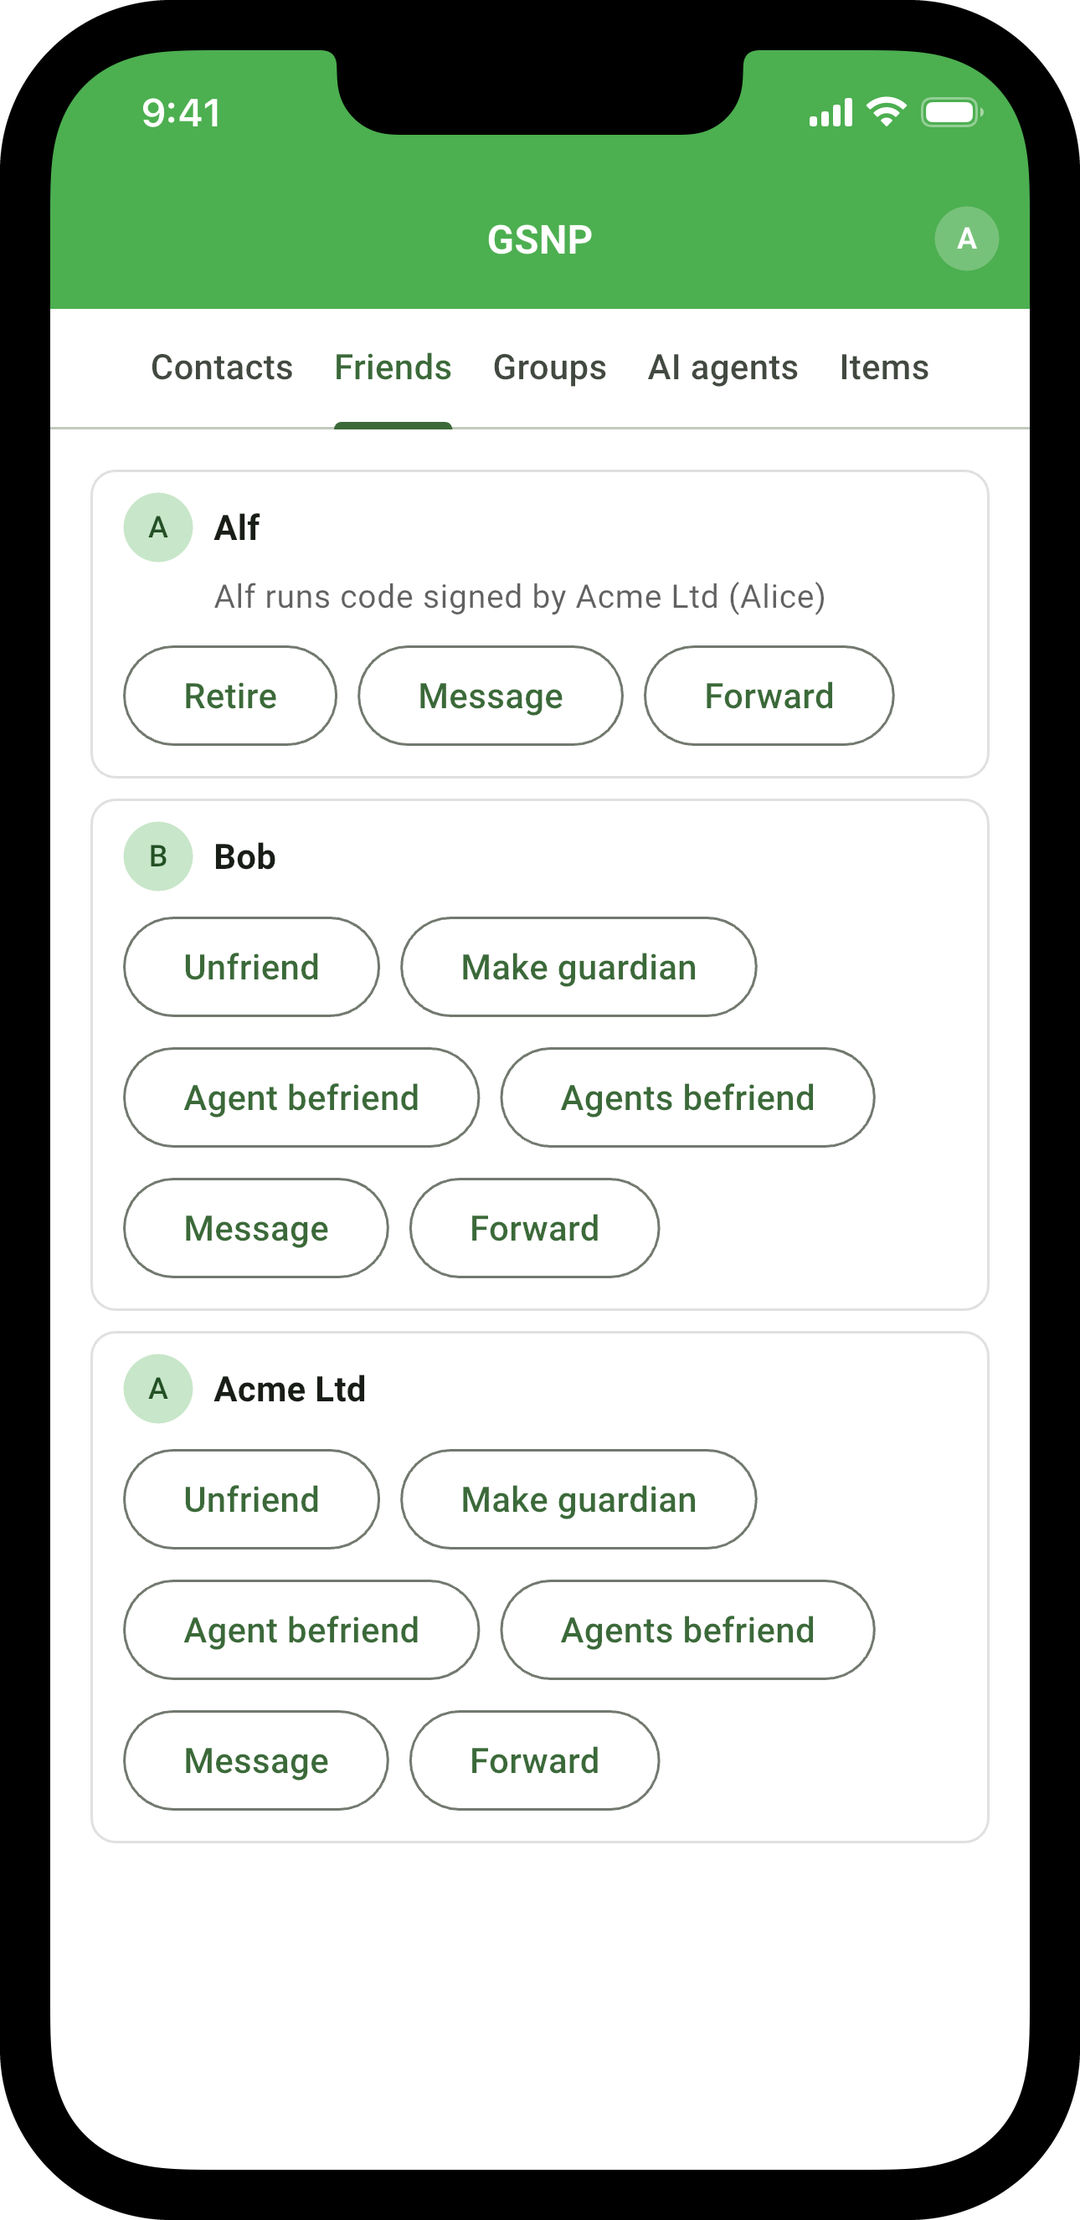
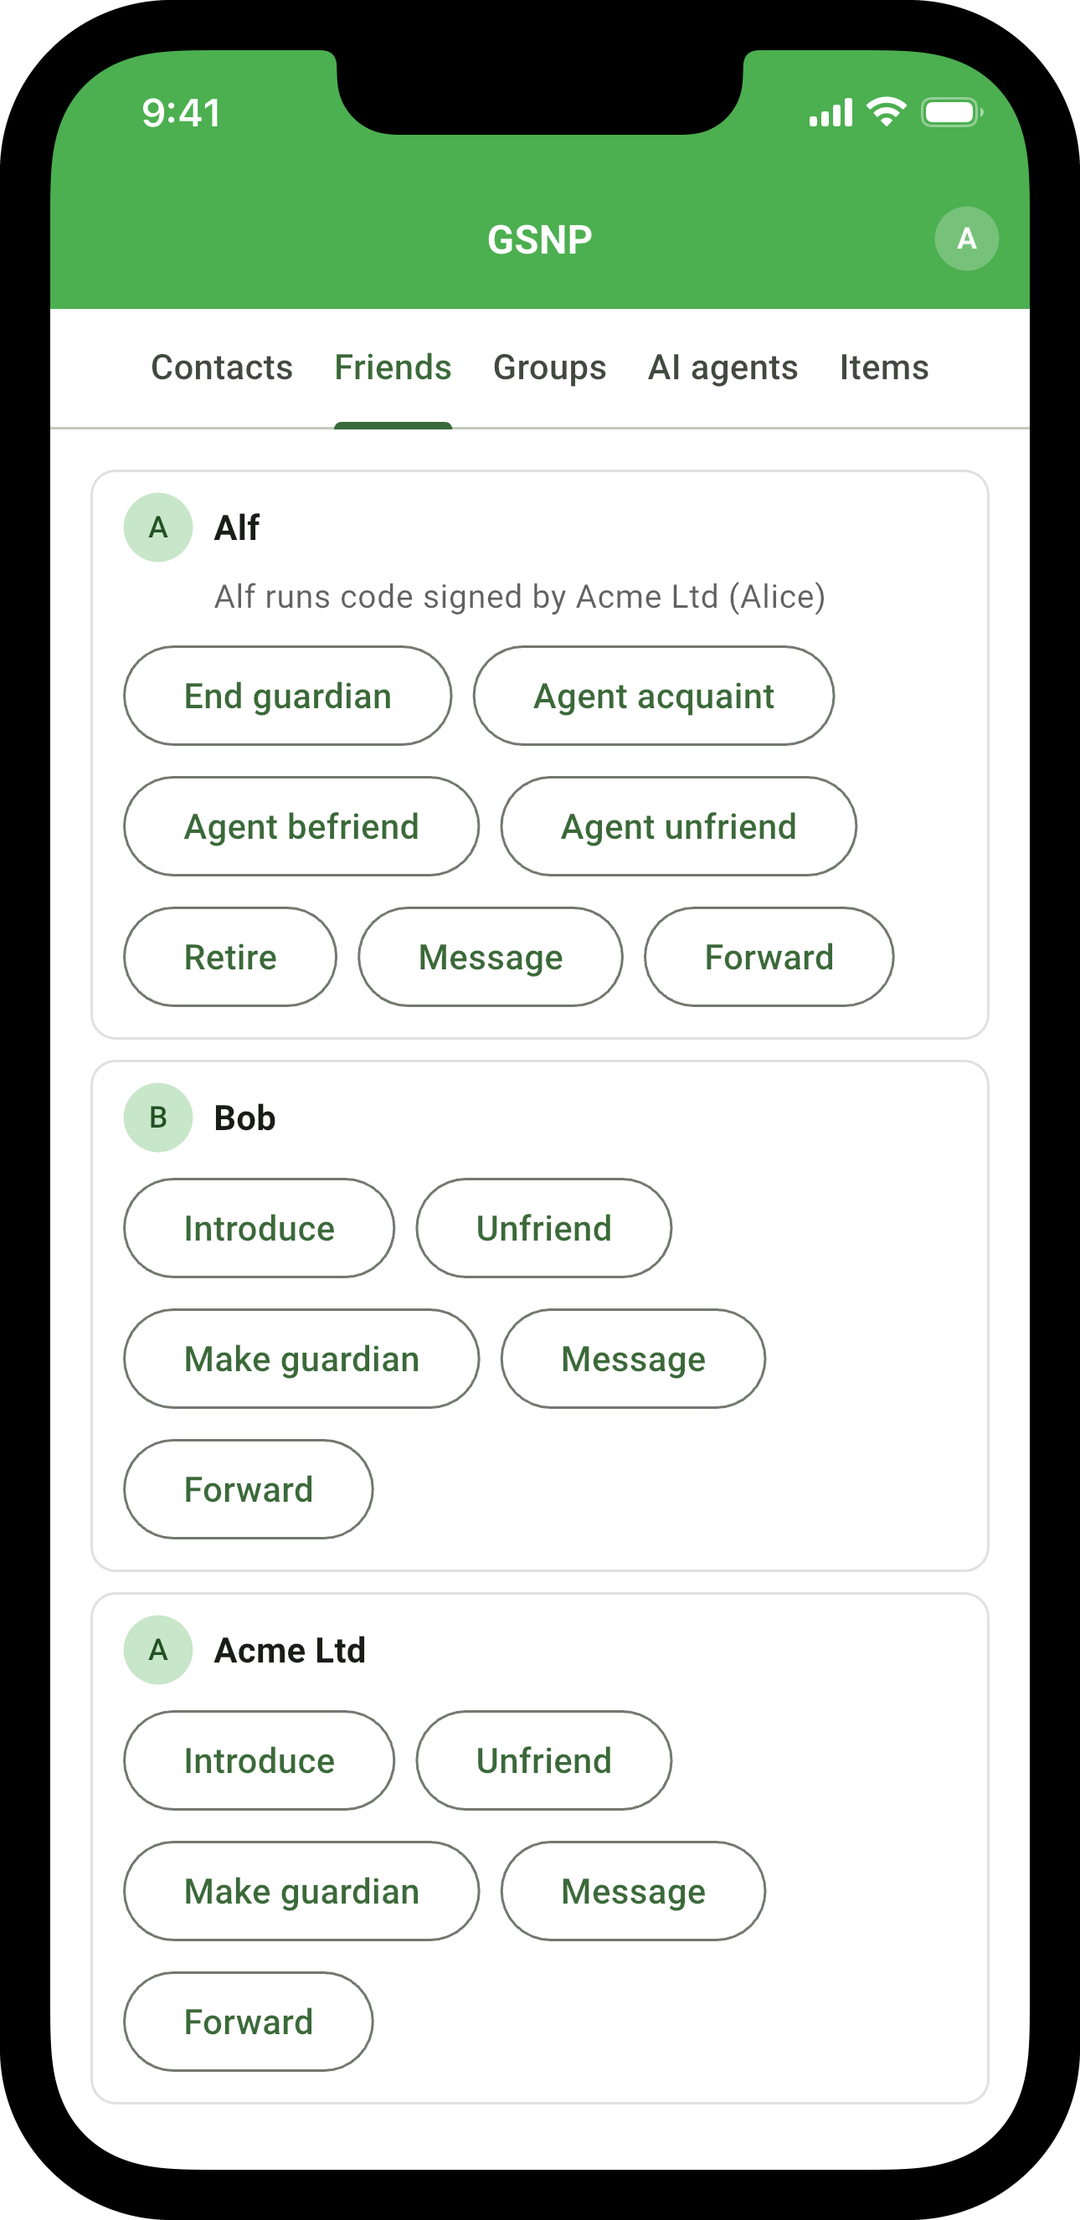
GAI's screens gai-b, gai-c and gai-d re-taken on the iOS Simulator at 4a85d455: End guardian, Agent acquaint, Agent befriend and Agent unfriend in Alf's row and not in a person's, no End guardian form on Bob's AI agents tab (vGLP b4022ce, Section 6.2); README rows b and d to the screens (Code #20)

diff --git a/programs/apps/gsnp/screens/README.md b/programs/apps/gsnp/screens/README.md
@@ -23,9 +23,9 @@ GAI's Figure "The GAI app", in the order of the example of GAI's paper (Section 
 
 | File | What it shows |
 |---|---|
-| `gai-b-alice-agents.png` | Alice's Friends tab after she entered Alf: Alf's row, under it "Alf runs code signed by Acme Ltd (Alice)", her record of Alf's attestation, y as she signed it, and in the row Retire, GAI's "Alice [Retire]", drawn in Alf's row of Friends, retire requiring the friendship at her (vGLP, Section 6.2: "an act that names an entry is drawn in that entry's row"); her AI agents tab, the tab of GAI, lists Alf too, with Agent acquaint, Agent befriend and Agent unfriend in its row and not Retire. |
+| `gai-b-alice-agents.png` | Alice's Friends tab after she entered Alf: Alf's row, under it "Alf runs code signed by Acme Ltd (Alice)", her record of Alf's attestation, y as she signed it, and in the row Retire, GAI's "Alice [Retire]", drawn in Alf's row of Friends, retire requiring the friendship at her (vGLP, Section 6.2: "an act that names an entry is drawn in that entry's row"); her AI agents tab, the tab of GAI, lists Alf too, with End guardian, Agent acquaint, Agent befriend and Agent unfriend in its row and not Retire.  End guardian, Agent acquaint, Agent befriend and Agent unfriend are drawn in Alf's row and not in Bob's or Acme Ltd's, each with the field person, which names the other person: "only in the row of an entry that fills the one place of the act its pragma's fields do not name" (vGLP b4022ce, Section 6.2). |
 | `gai-c-alice-asked.png` | Alice's AI agents tab as she proposes that Alf befriend Bob: Agent befriend's form open in Alf's row, Bob picked under person, the field its pragma names, "Alice [Agent befriend] <person>", and the button Agent befriend. |
-| `gai-d-bob-asked.png` | Bob's AI agents tab, asked GAI's question to the other person, "Alice asks that you and their AI agent Alf befriend.", with yes and no. |
+| `gai-d-bob-asked.png` | Bob's AI agents tab, asked GAI's question to the other person, "Alice asks that you and their AI agent Alf befriend.", with yes and no; no form of End guardian under it, End guardian naming an AI agent, an entry, in whose row it is drawn (vGLP b4022ce, Section 6.2), and Bob's tab listing none. |
 | `gai-e-bob-friends.png` | Bob's Friends tab after his yes: Alf, his friend, under it "Alf runs code signed by Acme Ltd (Alice)", his record of Alf's attestation, its principal Alice, who signed it, and its developer, Acme Ltd, whose code it attests; no Acquaint, Befriend or Introduce beside Alf, Bob's agent_of(alf, y) showing that Alf holds agent, which those acts forbid at his role (vGLP 893d4ea, Section 6.2). |
 
 The words on these screens are the contracts' pragmas, the platform's yes and no, and Peer and Speech, the names of the types of places no pragma names a field for (vGLP, Section 6.2, "The words a platform shows").  Where a button is drawn is vGLP's Section 6.2: an act that names an entry is drawn in that entry's row, the row filling it, and opens its form there; an act that names no entry is a form at the top of the tab of its contract; and a speech act is drawn with its signers, innermost first.  GAI's contract carries one question for each other guarding role of its line (`programs/gai/GAI.txt`, "Ward and person"): Alf, the AI agent, is asked "Alice asks that you and Bob befriend.", which its program answers, and Bob "Alice asks that you and their AI agent Alf befriend.".
